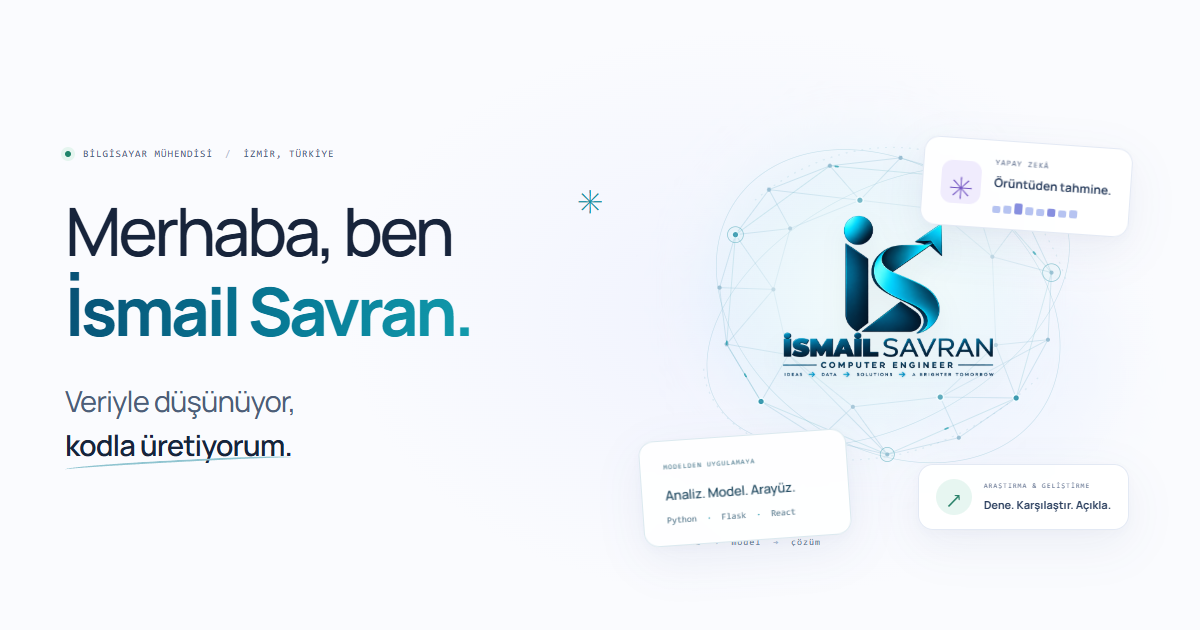
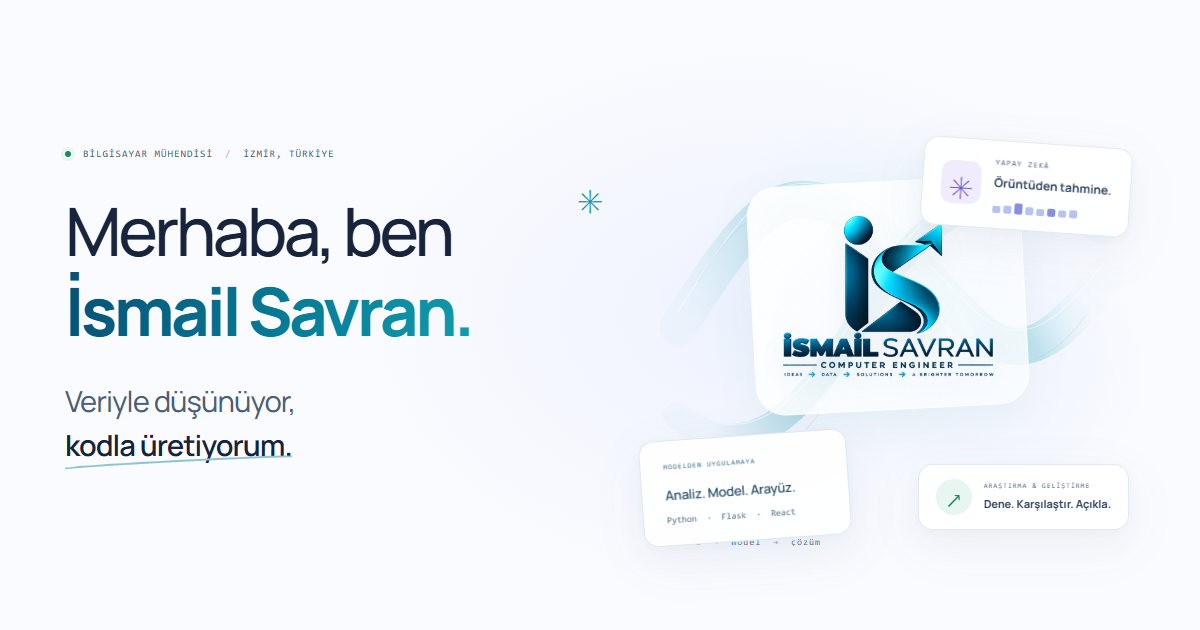
Soften section transitions and introduce an ambient ribbon hero

diff --git a/index.html b/index.html
@@ -17,11 +17,11 @@
 <link rel="icon" type="image/svg+xml" href="favicon.svg">
 <link rel="preload" href="fonts/manrope-latin-variable.woff2" as="font" type="font/woff2" crossorigin>
 <link rel="preload" href="fonts/manrope-latin-ext-variable.woff2" as="font" type="font/woff2" crossorigin>
-<link rel="stylesheet" href="styles.css?v=20260907-4">
-<link rel="stylesheet" href="refinements.css?v=20260907-4">
+<link rel="stylesheet" href="styles.css?v=20260907-5">
+<link rel="stylesheet" href="refinements.css?v=20260907-5">
 <script type="application/ld+json">{"@context":"https://schema.org","@type":"Person","name":"İsmail Savran","jobTitle":"Bilgisayar Mühendisi","url":"https://ismailsavran10.github.io/","sameAs":["https://github.com/ismailsavran10","https://www.linkedin.com/in/ismail-savran-00ba0a326"],"alumniOf":{"@type":"CollegeOrUniversity","name":"Afyon Kocatepe Üniversitesi"},"knowsAbout":["Machine Learning","Natural Language Processing","Time Series Forecasting","Software Development"]}</script>
-<script src="app.js?v=20260907-4" defer></script>
-<script src="motion.js?v=20260907-4" defer></script>
+<script src="app.js?v=20260907-5" defer></script>
+<script src="motion.js?v=20260907-5" defer></script>
 </head>
 <body>
 <div class="reading-progress" aria-hidden="true"></div>
@@ -50,10 +50,16 @@
   <div class="hero-visual">
     <div class="scene-halo halo-one" aria-hidden="true"></div><div class="scene-halo halo-two" aria-hidden="true"></div>
     <div class="scene-ring ring-one" aria-hidden="true"></div><div class="scene-ring ring-two" aria-hidden="true"></div>
-    <div class="data-constellation" aria-hidden="true">
-      <div class="network-layer network-back"><svg viewBox="0 0 560 500" fill="none"><ellipse cx="280" cy="240" rx="223" ry="132" transform="rotate(-29 280 240)"/><ellipse cx="280" cy="240" rx="210" ry="159" transform="rotate(35 280 240)"/><path d="M71 311C76 413 294 478 455 316M129 120C251 17 427 47 481 209" stroke-dasharray="2 7"/></svg></div>
-      <div class="network-layer network-mesh"><svg viewBox="0 0 560 500" fill="none"><g class="network-links"><path d="M107 159 145 108"/><path d="M145 108 214 81"/><path d="M214 81 294 72"/><path d="M294 72 371 95"/><path d="M371 95 434 136"/><path d="M434 136 465 202"/><path d="M465 202 461 278"/><path d="M461 278 425 344"/><path d="M425 344 360 389"/><path d="M360 389 279 408"/><path d="M279 408 202 390"/><path d="M202 390 136 348"/><path d="M136 348 97 283"/><path d="M97 283 89 219"/><path d="M89 219 107 159"/><path d="M107 159 169 152"/><path d="M145 108 169 152"/><path d="M214 81 248 120"/><path d="M294 72 248 120"/><path d="M371 95 334 130"/><path d="M434 136 334 130"/><path d="M434 136 398 184"/><path d="M465 202 398 184"/><path d="M461 278 402 284"/><path d="M425 344 402 284"/><path d="M425 344 339 343"/><path d="M360 389 339 343"/><path d="M279 408 240 354"/><path d="M202 390 240 354"/><path d="M136 348 167 295"/><path d="M97 283 167 295"/><path d="M89 219 150 221"/><path d="M107 159 150 221"/><path d="M169 152 248 120"/><path d="M248 120 334 130"/><path d="M334 130 398 184"/><path d="M398 184 402 284"/><path d="M402 284 339 343"/><path d="M339 343 240 354"/><path d="M240 354 167 295"/><path d="M167 295 150 221"/><path d="M150 221 169 152"/><path d="M145 108 248 120"/><path d="M371 95 398 184"/><path d="M461 278 339 343"/><path d="M279 408 167 295"/><path d="M97 283 150 221"/></g><g class="network-nodes"><circle cx="107" cy="159" r="3.8" class="node-bright"/><circle cx="145" cy="108" r="2.3" class="node-small"/><circle cx="214" cy="81" r="2.3" class="node-small"/><circle cx="294" cy="72" r="2.3" class="node-small"/><circle cx="371" cy="95" r="3.8" class="node-bright"/><circle cx="434" cy="136" r="2.3" class="node-small"/><circle cx="465" cy="202" r="2.3" class="node-small"/><circle cx="461" cy="278" r="2.3" class="node-small"/><circle cx="425" cy="344" r="3.8" class="node-bright"/><circle cx="360" cy="389" r="2.3" class="node-small"/><circle cx="279" cy="408" r="2.3" class="node-small"/><circle cx="202" cy="390" r="2.3" class="node-small"/><circle cx="136" cy="348" r="3.8" class="node-bright"/><circle cx="97" cy="283" r="2.3" class="node-small"/><circle cx="89" cy="219" r="2.3" class="node-small"/><circle cx="169" cy="152" r="2.3" class="node-small"/><circle cx="248" cy="120" r="3.8" class="node-bright"/><circle cx="334" cy="130" r="2.3" class="node-small"/><circle cx="398" cy="184" r="2.3" class="node-small"/><circle cx="402" cy="284" r="2.3" class="node-small"/><circle cx="339" cy="343" r="3.8" class="node-bright"/><circle cx="240" cy="354" r="2.3" class="node-small"/><circle cx="167" cy="295" r="2.3" class="node-small"/><circle cx="150" cy="221" r="2.3" class="node-small"/></g></svg></div>
-      <div class="network-layer network-front"><svg viewBox="0 0 560 500" fill="none"><path class="signal-track" d="M97 283 107 159 214 81 371 95 465 202 425 344 279 408 136 348 97 283"/><path class="signal-flow" d="M97 283 107 159 214 81 371 95 465 202 425 344 279 408 136 348 97 283"/><g class="network-beacons"><circle cx="107" cy="159" r="9"/><circle cx="465" cy="202" r="10"/><circle cx="279" cy="408" r="8"/></g></svg></div>
+    <div class="ambient-ribbons" aria-hidden="true">
+      <svg viewBox="0 0 560 500" fill="none">
+        <defs>
+          <linearGradient id="ribbon-ice" x1="86" y1="330" x2="448" y2="130" gradientUnits="userSpaceOnUse"><stop stop-color="#c6e5f1" stop-opacity=".12"/><stop offset=".34" stop-color="#91cddc" stop-opacity=".5"/><stop offset=".6" stop-color="#e7f8fc"/><stop offset=".81" stop-color="#93d1df" stop-opacity=".55"/><stop offset="1" stop-color="#dff2f8" stop-opacity=".1"/></linearGradient>
+          <linearGradient id="ribbon-teal" x1="73" y1="368" x2="476" y2="155" gradientUnits="userSpaceOnUse"><stop stop-color="#78bdce" stop-opacity=".05"/><stop offset=".35" stop-color="#65b8ca" stop-opacity=".7"/><stop offset=".54" stop-color="#d5f1f6"/><stop offset=".74" stop-color="#42a2b9" stop-opacity=".55"/><stop offset="1" stop-color="#87c7d8" stop-opacity=".05"/></linearGradient>
+        </defs>
+        <g class="ribbon-far"><path d="M42 264C136 116 168 81 272 160S407 371 525 207" stroke="url(#ribbon-ice)" stroke-width="42" stroke-linecap="round"/><path d="M42 246C136 98 168 63 272 142S407 353 525 189" stroke="white" stroke-opacity=".65" stroke-width="1"/></g>
+        <g class="ribbon-near"><path d="M40 364C131 432 194 346 262 234S398 90 524 155" stroke="url(#ribbon-teal)" stroke-width="30" stroke-linecap="round"/><path d="M40 350C131 418 194 332 262 220S398 76 524 141" stroke="#e7faff" stroke-width="1.3" stroke-opacity=".8"/></g>
+        <g class="ribbon-fine" stroke="#9acada" stroke-width=".7" opacity=".4"><path d="M67 398C169 458 218 341 280 227S420 77 502 110"/><path d="M65 212C164 49 236 153 290 218S428 358 504 250"/></g>
+      </svg>
     </div><div class="hero-brand"><img src="brand-logo.webp" alt="İsmail Savran — Computer Engineer" width="1446" height="1088" fetchpriority="high"></div>
     <div class="floating-card float-ai" aria-hidden="true"><span class="float-icon">✳</span><div><span class="float-label">YAPAY ZEKÂ</span><strong>Örüntüden tahmine.</strong><span class="card-mini-line"><i></i><i></i><i></i><i></i><i></i><i></i><i></i><i></i></span></div></div>
     <div class="floating-card float-code" aria-hidden="true"><span class="float-label">MODELDEN UYGULAMAYA</span><strong>Analiz. Model. Arayüz.</strong><span class="build-stack">Python <i>·</i> Flask <i>·</i> React</span></div>

diff --git a/motion.js b/motion.js
@@ -122,30 +122,17 @@
           const lineElements = [...element.querySelectorAll(':scope > .line-mask > .line-inner')];
           if (lineElements.length) {
             lineElements.forEach((line, index) => trackAnimation(line.animate([
-              { transform: 'translate3d(0,110%,0) rotate(2deg)', opacity: 0.25 },
-              { transform: 'translate3d(0,0,0) rotate(0)', opacity: 1 }
-            ], { duration: 1000, delay: index * 125, easing: 'cubic-bezier(.16,1,.3,1)', fill: 'backwards' })));
+              { transform: 'translate3d(0,8px,0)', opacity: 0.65 },
+              { transform: 'translate3d(0,0,0)', opacity: 1 }
+            ], { duration: 600, delay: index * 45, easing: 'cubic-bezier(.25,.1,.25,1)', fill: 'backwards' })));
             return;
           }
-          const card = element.matches('.project-card, .paper-card');
-          const hero = element.closest('.hero-copy');
-          // Critical copy renders immediately instead of waiting for an opacity reveal.
-          if (hero && element.matches('h1, p')) return;
-          const delay = hero ? [...hero.querySelectorAll('[data-reveal]')].indexOf(element) * 75 : Math.min(position, 3) * 80;
-          trackAnimation(element.animate(card ? [
-            { opacity: 0, transform: 'perspective(1400px) translate3d(0,56px,0) rotateX(4deg) scale(.98)' },
-            { opacity: 1, transform: 'perspective(1400px) translate3d(0,0,0) rotateX(0) scale(1)' }
-          ] : [
-            { opacity: 0, transform: 'translate3d(0,32px,0)' },
+          trackAnimation(element.animate([
+            { opacity: 0.65, transform: 'translate3d(0,12px,0)' },
             { opacity: 1, transform: 'translate3d(0,0,0)' }
-          ], { duration: card ? 800 : 650, delay, easing: 'cubic-bezier(.16,1,.3,1)', fill: 'backwards' }));
-          if (element.classList.contains('research-method')) {
-            [...element.children].forEach((child, index) => trackAnimation(child.animate([
-              { opacity: 0, transform: 'translateY(24px)' }, { opacity: 1, transform: 'translateY(0)' }
-            ], { duration: 700, delay: 160 + index * 120, fill: 'backwards', easing: 'cubic-bezier(.16,1,.3,1)' })));
-          }
+          ], { duration: 600, delay: Math.min(position, 2) * 35, easing: 'cubic-bezier(.25,.1,.25,1)', fill: 'backwards' }));
         });
-      }, { threshold: 0.12, rootMargin: '0px 0px -35px 0px' });
+      }, { threshold: 0, rootMargin: '0px 0px 100px 0px' });
       document.querySelectorAll('[data-reveal]').forEach(element => revealObserver.observe(element));
     }
 
@@ -159,26 +146,13 @@
       scenes.forEach(scene => sceneObserver.observe(scene));
     }
 
-    // Native scrolling is preserved; depth is applied only to decorative layers.
-    const depthLayers = [...document.querySelectorAll('.project-card .project-art, .paper-cover')].map(surface => ({
-      surface,
-      layer: surface.querySelector('svg, .email-diagram, .series-bars, .sentiment-cloud')
-    })).filter(item => item.layer);
+    // Keep content anchored while the research indicator follows native scrolling.
     const research = document.querySelector('.research-layout');
     const researchCards = [...document.querySelectorAll('.paper-card')];
     const researchLabels = [...document.querySelectorAll('.research-index > span')];
-    const brand = document.querySelector('.hero-brand');
     let scrollFrame = 0;
     const updateDepth = () => {
       scrollFrame = 0;
-      const animate = isRunning() && !reduceMotion.matches && !document.hidden;
-      depthLayers.forEach(({ surface, layer }) => {
-        if (!animate) { layer.style.removeProperty('transform'); return; }
-        const bounds = surface.getBoundingClientRect();
-        if (bounds.bottom < -50 || bounds.top > innerHeight + 50) return;
-        const progress = Math.max(-1, Math.min(1, (bounds.top + bounds.height / 2 - innerHeight / 2) / innerHeight));
-        layer.style.transform = 'translate3d(0,' + (progress * (finePointer.matches ? 22 : 10)).toFixed(2) + 'px,0) scale(1.025)';
-      });
       if (research) {
         const bounds = research.getBoundingClientRect();
         const progress = Math.max(0, Math.min(1, (innerHeight * .65 - bounds.top) / bounds.height));
@@ -186,10 +160,6 @@
         let selected = 0;
         researchCards.forEach((card, index) => { if (card.getBoundingClientRect().top < innerHeight * .55) selected = index; });
         researchLabels.forEach((label, index) => label.classList.toggle('active', index === selected));
-      }
-      if (brand) {
-        if (animate && scrollY < innerHeight) brand.style.transform = 'translate(-50%, -48%) translate3d(0,' + Math.min(22, scrollY * .045).toFixed(2) + 'px,0)';
-        else brand.style.removeProperty('transform');
       }
     };
     const queueDepth = () => { if (!scrollFrame) scrollFrame = requestAnimationFrame(updateDepth); };
@@ -199,43 +169,6 @@
     motionListeners.add(queueDepth);
     queueDepth();
 
-    document.querySelectorAll('.tilt-surface').forEach(surface => {
-      let frame = 0;
-      let targetX = 0, targetY = 0, currentX = 0, currentY = 0;
-      let hovering = false;
-      const spring = () => {
-        frame = 0;
-        currentX += (targetX - currentX) * .12;
-        currentY += (targetY - currentY) * .12;
-        surface.style.transform = 'perspective(1100px) rotateX(' + (-currentY * 5).toFixed(3) + 'deg) rotateY(' + (currentX * 5).toFixed(3) + 'deg)';
-        if (Math.abs(currentX - targetX) + Math.abs(currentY - targetY) > .002) frame = requestAnimationFrame(spring);
-        else if (!hovering) surface.style.removeProperty('transform');
-      };
-      const reset = () => {
-        cancelAnimationFrame(frame);
-        frame = 0;
-        targetX = targetY = currentX = currentY = 0;
-        surface.style.removeProperty('transform');
-      };
-      surface.addEventListener('pointermove', event => {
-        if (!finePointer.matches || reduceMotion.matches || !isRunning()) return;
-        hovering = true;
-        const bounds = surface.getBoundingClientRect();
-        targetX = (event.clientX - bounds.left) / bounds.width - .5;
-        targetY = (event.clientY - bounds.top) / bounds.height - .5;
-        if (!frame) frame = requestAnimationFrame(spring);
-      }, { passive: true });
-      surface.addEventListener('pointerleave', () => {
-        hovering = false;
-        targetX = targetY = 0;
-        if (!frame && isRunning() && !reduceMotion.matches) frame = requestAnimationFrame(spring);
-        else if (!isRunning()) reset();
-      }, { passive: true });
-      surface.addEventListener('pointercancel', reset, { passive: true });
-      motionListeners.add(reset);
-      finePointer.addEventListener('change', reset);
-      reduceMotion.addEventListener('change', reset);
-    });
     document.querySelectorAll('.project-card').forEach(card => {
       card.addEventListener('pointermove', event => {
         if (!finePointer.matches || !isRunning() || reduceMotion.matches) return;

diff --git a/refinements.css b/refinements.css
@@ -163,27 +163,39 @@ nav{gap:22px}.motion-toggle{margin-left:0}.nav-wrap{gap:20px}
 @media(max-width:760px){.float-code{min-width:184px;padding:17px 19px}.float-code strong{font-size:12px}.build-stack{font-size:8px}}
 @media(max-width:380px){.float-code{min-width:170px;padding:15px 17px}}
 
-/* A quiet data constellation is present in the first HTML paint. */
-.data-constellation{position:absolute;inset:0;pointer-events:none;perspective:1000px}
-.network-layer{position:absolute;inset:0;transition:transform 1s cubic-bezier(.2,.75,.25,1);transform-origin:50% 50%}
-.network-layer svg{display:block;width:100%;height:100%;overflow:visible}
-.network-back{transform:translate3d(calc(var(--scene-x,0)*-7px),calc(var(--scene-y,0)*-5px),0) rotateY(calc(var(--scene-x,0)*-3deg))}
-.network-back svg{stroke:#94c5d6;stroke-width:.7;opacity:.45}
-.network-mesh{transform:translate3d(calc(var(--scene-x,0)*8px),calc(var(--scene-y,0)*6px),0) rotateY(calc(var(--scene-x,0)*4deg))}
-.network-links{stroke:#82b8cf;stroke-width:.85;opacity:.4}
-.node-small{fill:#9bbfd3}.node-bright{fill:#3998ae;stroke:#effaff;stroke-width:1.8}
-.network-front{transform:translate3d(calc(var(--scene-x,0)*15px),calc(var(--scene-y,0)*10px),0)}
-.signal-track{stroke:#58aebd;stroke-width:1;opacity:.25}
-.signal-flow{stroke:#249fae;stroke-width:2;stroke-linecap:round;stroke-dasharray:3 260;animation:constellation-flow 16s linear infinite;opacity:.75}
-.network-beacons{stroke:#3c9faf;stroke-width:.8;fill:#b7e8eb;fill-opacity:.18;opacity:.55;animation:constellation-breathe 6s ease-in-out infinite alternate}
-.hero-visual .scene-ring{display:none}
-.hero-visual .halo-one{opacity:.65}.hero-visual .halo-two{opacity:.4}
-.hero-brand{visibility:visible;isolation:isolate}
-.hero-brand:before{content:"";position:absolute;inset:-25%;z-index:-1;border-radius:50%;background:radial-gradient(ellipse,#f1fafbed 20%,#f1fafb80 45%,transparent 70%)}
 html:not([data-motion-ready]) .hero *,html:not([data-motion-ready]) .hero *:before,html:not([data-motion-ready]) .hero *:after{animation-play-state:paused!important}
 .page-hidden *,.page-hidden *:before,.page-hidden *:after{animation-play-state:paused!important}
 .project-card[data-initial-view] .series-bars i,.project-card[data-initial-view] .flight-art>svg>path:first-of-type,.paper-card[data-initial-view] .curve-main{animation:none;stroke-dashoffset:0}
-@keyframes constellation-flow{to{stroke-dashoffset:-1052}}
-@keyframes constellation-breathe{from{opacity:.25}to{opacity:.7}}
-@media(prefers-reduced-motion:reduce){.network-layer{transform:none!important;transition:none}.signal-flow{animation:none;stroke-dashoffset:0}}
-[data-motion=paused] .network-layer{transform:none!important}
+
+/* Small, eased movements keep the lower sections visually anchored. */
+.project-card.scene-entered .flight-art>svg>path:first-of-type,.project-card.scene-entered .series-bars i,.paper-card.scene-entered .curve-main{animation:none;stroke-dashoffset:0}
+.project-art>svg,.email-diagram,.series-bars,.sentiment-cloud{will-change:auto}
+.project-detail:is(:hover,:focus-visible) span{transform:translate(1px,-1px)}
+.project-detail:active span{transform:scale(.97)}
+.paper-link:hover>span{transform:translate(2px,-2px)}
+.project-card:hover{box-shadow:0 10px 28px #243c6817}
+.scene-entered .firewall-shield,.scene-entered .network-traces path,.scene-entered .firewall-check,.project-card:is(:hover,:focus-within) .firewall-check{animation:none;stroke-dashoffset:0}
+.project-card.motion-visible .network-packet,.dialog-art .network-packet{animation-duration:5s}
+.project-card.motion-visible .packet-two,.dialog-art .packet-two{animation-delay:2.5s}
+::view-transition-group(project-media){animation-duration:520ms;animation-timing-function:cubic-bezier(.25,.1,.25,1)}
+::view-transition-new(project-details){animation:soft-detail-in 420ms ease 60ms both}
+::view-transition-old(project-details){animation:soft-detail-out 180ms ease both}
+@keyframes soft-detail-in{from{opacity:.3;transform:translateY(8px)}to{opacity:1;transform:translateY(0)}}
+@keyframes soft-detail-out{to{opacity:0;transform:translateY(4px)}}
+
+.expertise:hover{transform:translateY(-2px);box-shadow:0 9px 24px #2e49740d}
+.primary:hover,.secondary:hover{transform:translateY(-1px)}
+.contact-orb:hover{transform:rotate(4deg)}
+.ambient-ribbons{position:absolute;inset:0;pointer-events:none;transform:translate3d(calc(var(--scene-x,0)*6px),calc(var(--scene-y,0)*4px),0);transition:transform 1.4s ease}
+.ambient-ribbons svg{display:block;width:100%;height:100%;overflow:visible}
+.ribbon-far,.ribbon-near,.ribbon-fine{transform-origin:280px 250px;animation:ribbon-drift 14s ease-in-out infinite alternate}
+.ribbon-near{animation-name:ribbon-return;animation-duration:18s}.ribbon-fine{animation-duration:20s}
+.hero-visual .scene-ring{display:none}.hero-visual .halo-one{opacity:.35}.hero-visual .halo-two{opacity:.3}
+.hero-brand{visibility:visible;isolation:isolate;transform:translate(-50%,-48%) perspective(1100px) rotateX(calc(var(--scene-y,0)*-2deg)) rotateY(calc(var(--scene-x,0)*3deg));transition:transform 1.4s ease}
+.hero-brand:before{content:"";position:absolute;inset:-28px -22px;z-index:-1;border-radius:30px;border:1px solid #ffffffd9;background:linear-gradient(130deg,#ffffffed,#f8fcffba);box-shadow:0 15px 45px #397f9710,inset 0 0 35px #ffffff80;transform:rotate(-3deg)}
+.floating-card{animation-duration:12s}.float-ai{animation-delay:0s}.float-code{animation-delay:0s}.float-research{animation-delay:0s}
+@keyframes ribbon-drift{from{transform:translate3d(0,-4px,0) rotate(-1deg)}to{transform:translate3d(0,4px,0) rotate(1deg)}}
+@keyframes ribbon-return{from{transform:translate3d(-3px,3px,0) rotate(1deg)}to{transform:translate3d(3px,-3px,0) rotate(-1deg)}}
+@media(max-width:760px){.hero-brand:before{inset:-20px -16px;border-radius:24px}}
+@media(prefers-reduced-motion:reduce){.ambient-ribbons{transform:none}.hero-brand{transform:translate(-50%,-48%)}.ribbon-far,.ribbon-near,.ribbon-fine{animation:none}}
+[data-motion=paused] .ambient-ribbons{transform:none}

diff --git a/app.js b/app.js
@@ -27,7 +27,6 @@ window.matchMedia("(min-width: 761px)").addEventListener("change", event => { if
 const filters = [...document.querySelectorAll("[data-filter]")];
 const projects = [...document.querySelectorAll("[data-category]")];
 filters.forEach(button => button.addEventListener("click", () => {
-  const before = new Map(projects.filter(p => !p.hidden).map(p => [p, p.getBoundingClientRect()]));
   filters.forEach(item => {
     item.classList.toggle("active", item === button);
     item.setAttribute("aria-pressed", String(item === button));
@@ -41,15 +40,10 @@ filters.forEach(button => button.addEventListener("click", () => {
   });
   if (motionAllowed() && Element.prototype.animate) {
     projects.filter(p => !p.hidden).forEach((project, index) => {
-      const old = before.get(project);
-      const now = project.getBoundingClientRect();
-      project.animate(old ? [
-        { transform: "translate(" + (old.left - now.left) + "px," + (old.top - now.top) + "px)", opacity: 0.75 },
-        { transform: "translate(0,0)", opacity: 1 }
-      ] : [
-        { transform: "translateY(22px) scale(.985)", opacity: 0 },
-        { transform: "translateY(0) scale(1)", opacity: 1 }
-      ], { duration: 520, delay: index * 35, easing: "cubic-bezier(.22,1,.36,1)" });
+      project.animate([
+        { opacity: .7, transform: "translateY(6px)" },
+        { opacity: 1, transform: "translateY(0)" }
+      ], { duration: 340, delay: Math.min(index,2) * 25, easing: "cubic-bezier(.25,.1,.25,1)" });
     });
   }
   document.querySelector("#filter-status").textContent = count + " proje gösteriliyor.";
@@ -130,14 +124,14 @@ function runProjectTransition(update, opening) {
   clearSharedNames();
   if (opening && motionAllowed()) {
     fallbackAnimation = dialog.animate([
-      { opacity: 0, transform: "translateY(32px) scale(.96)" },
-      { opacity: 1, transform: "translateY(0) scale(1)" }
-    ], { duration: 520, easing: "cubic-bezier(.16,1,.3,1)" });
+      { opacity: 0, transform: "translateY(10px)" },
+      { opacity: 1, transform: "translateY(0)" }
+    ], { duration: 520, easing: "cubic-bezier(.25,.1,.25,1)" });
     [...dialog.querySelector(".dialog-content").children].forEach((child, index) => {
       child.animate([
-        { opacity: 0, transform: "translateY(18px)" },
+        { opacity: 0, transform: "translateY(6px)" },
         { opacity: 1, transform: "translateY(0)" }
-      ], { duration: 480, delay: 80 + index * 45, fill: "backwards", easing: "cubic-bezier(.16,1,.3,1)" });
+      ], { duration: 480, delay: 80 + index * 45, fill: "backwards", easing: "cubic-bezier(.25,.1,.25,1)" });
     });
   }
   return null;
@@ -190,7 +184,7 @@ async function closeProject() {
   if (!document.startViewTransition && motionAllowed()) {
     fallbackAnimation = dialog.animate([
       { opacity: 1, transform: "translateY(0) scale(1)" },
-      { opacity: 0, transform: "translateY(18px) scale(.98)" }
+      { opacity: 0, transform: "translateY(6px)" }
     ], { duration: 220, easing: "ease-in" });
     await fallbackAnimation.finished.catch(() => {});
     dialog.close();
